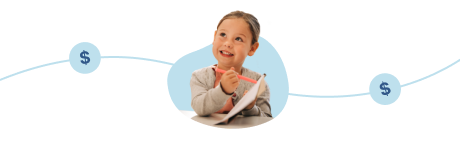
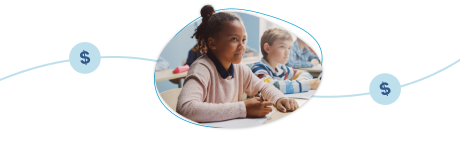
changing modal donation drawer to white bg, fixing page jump when landing mid-flow

Changed region(s): [[0.3348, 0.0282, 0.7, 0.9014]]

diff --git a/src/pages/Donate/DonateScrollFlow.jsx b/src/pages/Donate/DonateScrollFlow.jsx
@@ -32,6 +32,28 @@ export default function DonateScrollFlow() {
   const [dotPositions, setDotPositions] = useState({ fund: 0, state: 0, school: 0 });
   const didInitOnce = useRef(false);
 
+  // A prefill link (e.g. ?fund=american-promise) makes the init effect below
+  // jump the scroll position past Fund — but that jump only happens after a
+  // render + several requestAnimationFrame stability checks, so without this
+  // the very first paint briefly shows the page at the top before snapping
+  // down, reading as a jarring flash-then-jump. Computed synchronously here
+  // (mirroring the init effect's own target resolution exactly) so a normal
+  // fresh visit — the common case, nothing to jump past — never pays for
+  // this at all: it's ready immediately.
+  const [isReady, setIsReady] = useState(() => {
+    const params = new URLSearchParams(location.search);
+    const fundParam = params.get('fund');
+    const stateParam = params.get('state');
+    const hasFund = Boolean(fundParam) && FUNDS.some((fund) => fund.id === fundParam);
+    if (!hasFund) return true;
+    const matchedState = stateParam
+      ? STATE_OPTIONS.find((option) => option.value.toLowerCase() === stateParam.toLowerCase())
+      : null;
+    // No-preference resolves the whole flow with no School step left to jump
+    // to, same as the init effect's own target computation.
+    return matchedState?.value === 'no-preference';
+  });
+
   const selectedFund = FUNDS.find((fund) => fund.id === fundId) || null;
   const selectedState = STATE_OPTIONS.find((option) => option.value === stateCode) || null;
   const selectedSchool = findSchool(stateCode, schoolId);
@@ -58,7 +80,10 @@ export default function DonateScrollFlow() {
   // land short. Poll the target's absolute position each frame until it
   // stops moving between two consecutive frames, then scroll — robust to
   // however many render passes the change actually takes to settle.
-  function scrollToSectionWhenStable(key, opts, stableStreak = 0, attemptsLeft = 60) {
+  // onDone (used only by the init effect's prefill jump) fires right after
+  // the scroll actually happens — that's the signal the page is safe to
+  // reveal, having landed at its final position with nothing left to jump.
+  function scrollToSectionWhenStable(key, opts, stableStreak = 0, attemptsLeft = 60, onDone) {
     const el = sectionRefs[key].current;
     // Require several consecutive matching frames, not just one — a single
     // match can be a false positive between two separate cascading render
@@ -67,6 +92,7 @@ export default function DonateScrollFlow() {
     const REQUIRED_STREAK = 15;
     if (!el || attemptsLeft <= 0) {
       scrollToSection(key, opts);
+      onDone?.();
       return;
     }
     const top = el.getBoundingClientRect().top + window.scrollY;
@@ -75,8 +101,9 @@ export default function DonateScrollFlow() {
       const nextStreak = nowTop === top ? stableStreak + 1 : 0;
       if (nextStreak >= REQUIRED_STREAK) {
         scrollToSection(key, opts);
+        onDone?.();
       } else {
-        scrollToSectionWhenStable(key, opts, nextStreak, attemptsLeft - 1);
+        scrollToSectionWhenStable(key, opts, nextStreak, attemptsLeft - 1, onDone);
       }
     });
   }
@@ -179,7 +206,9 @@ export default function DonateScrollFlow() {
     // idea when no-preference resolves the whole flow with no School step to
     // land on — target is null and there's nothing to scroll to.
     if (target && target !== 'fund') {
-      scrollToSectionWhenStable(target, { smooth: false });
+      scrollToSectionWhenStable(target, { smooth: false }, 0, 60, () => setIsReady(true));
+    } else {
+      setIsReady(true);
     }
     // Only ever runs once, regardless of what changes afterward.
     // eslint-disable-next-line react-hooks/exhaustive-deps
@@ -230,7 +259,7 @@ export default function DonateScrollFlow() {
 
   return (
     <>
-      <div className="afc-donate-scroll-flow afc-wide">
+      <div className={`afc-donate-scroll-flow afc-wide${isReady ? '' : ' is-positioning'}`}>
         <div className="afc-donate-scroll-flow__sections">
           <h1 className="afc-donation-step__heading">
             MAKE A <strong>DONATION</strong>
@@ -295,7 +324,7 @@ export default function DonateScrollFlow() {
         />
       </div>
 
-      <div className="afc-wide afc-donate-scroll-flow__trust">
+      <div className={`afc-wide afc-donate-scroll-flow__trust${isReady ? '' : ' is-positioning'}`}>
         <p className="afc-donate-scroll-flow__trust-item">
           <LockIcon className="afc-donate-scroll-flow__trust-icon" />
           Secure donation

diff --git a/src/components/DonationSummaryPanel/DonationSummaryPanel.css b/src/components/DonationSummaryPanel/DonationSummaryPanel.css
@@ -48,8 +48,15 @@
   display: none;
 }
 
+/* Mobile-only (see @media below) — hidden here the same way
+   .rail-image--mobile is, since this wrapper only exists for the
+   full-screen mobile drawer, not the desktop card. */
+.afc-donation-panel__mobile-header {
+  display: none;
+}
+
 .afc-donation-panel__banner-text {
-  margin: 0;
+  margin: 0 0 10px;
   font-family: var(--font-body);
   font-size: 1.15rem;
   line-height: 1.35;
@@ -149,6 +156,13 @@
   font-weight: 600;
 }
 
+/* Unscoped (not inside any @media block) so this applies at every
+   breakpoint, not just desktop. */
+.afc-donation-panel__row-link:hover {
+  color: var(--color-link-hover);
+  text-decoration: underline;
+}
+
 /* No color set here on purpose — it should just inherit the surrounding
    text color (ink on the desktop card, paper/white on the mobile drawer via
    .afc-donation-panel__row-value p), not lock in one color for both. */
@@ -199,7 +213,7 @@
     border: none;
     z-index: 500;
     overflow: visible;
-    background: var(--color-structure);
+    background: var(--color-paper);
     transition: height 0.35s ease;
   }
 
@@ -297,6 +311,10 @@
   }
 
   .afc-donation-panel__banner-text {
+    /* Desktop's 10px margin-bottom would double up with this layout's own
+       0.625rem (10px) gap between every stacked child — the gap alone
+       already gives the same spacing here. */
+    margin-bottom: 0;
     font-size: 0.9rem;
   }
 
@@ -317,10 +335,39 @@
   /* On mobile the image lives in the upper blue area of the body (the part
      that scrolls into view at the top when the sheet expands), not inside
      the bottom-pinned banner — matching where the original placeholder box
-     used to sit, above the "Your Donation" rows. */
+     used to sit, above the "Your Donation" rows. Full-bleed within
+     .mobile-header: negative margins cancel that wrapper's own
+     padding-inline (var(--gutter)) so the image reaches its true edges
+     instead of just filling the padded content box — same technique as
+     .rail-image--desktop above, against this wrapper's own padding. */
   .afc-donation-panel__rail-image--mobile {
     display: block;
-    margin-top: 1.5rem;
+    width: calc(100% + 2 * var(--gutter));
+    max-width: none;
+    margin: 1.5rem calc(-1 * var(--gutter)) 12px;
+  }
+
+  /* Wraps the mobile logo + rail image in their own dark-blue band at the
+     top of the expanded drawer — the rest of the drawer is now white (see
+     .afc-donation-panel__body below), so this band needs its own explicit
+     background to stay blue instead of inheriting white.
+     Logo padding/sizing intentionally mirrors the real site header exactly
+     (same padding-top: 12px, same padding-inline: var(--gutter), same
+     width: clamp(220px, 22vw, 314px)) — confirmed via direct measurement
+     against .afc-site-logo img at 390px (x:20 y:12 w:220 h:39.2) — so that
+     when the drawer expands and covers the real header, this logo sits at
+     the exact same on-screen position/size the real one just occupied,
+     reading as one continuous logo rather than a jump-cut. */
+  .afc-donation-panel__mobile-header {
+    display: block;
+    padding: 12px var(--gutter) 0;
+    background: var(--color-structure);
+  }
+
+  .afc-donation-panel__mobile-logo {
+    display: block;
+    width: clamp(220px, 22vw, 314px);
+    height: auto;
   }
 
   /* Fills the panel from the top down to exactly where the (independently
@@ -335,39 +382,16 @@
     top: 0;
     bottom: var(--donation-panel-peek, 11rem);
     overflow-y: auto;
-    background: var(--color-structure);
+    background: var(--color-paper);
   }
 
   .afc-donation-panel__rows {
     padding: 2rem 1.25rem 0;
   }
 
-  .afc-donation-panel__rows-heading {
-    border-bottom-color: #5578a3;
-    color: var(--color-paper);
-  }
-
-  .afc-donation-panel__row {
-    border-bottom-color: #5578a3;
-    color: var(--color-paper);
-  }
-
-  .afc-donation-panel__row-value p {
-    color: var(--color-paper);
-  }
-
-  .afc-donation-panel__row-value p.is-locked {
-    color: rgba(255, 255, 255, 0.55);
-  }
-
-  .afc-donation-panel__row-link {
-    color: var(--color-accent);
-    text-decoration: underline;
-  }
-
-  .afc-donation-panel__row-link:hover {
-    color: var(--color-paper);
-  }
+  /* Rows/links below here now sit on the same white background as desktop
+     (.afc-donation-panel__body, above), so they just inherit the desktop
+     base rules unchanged — no dark-background color overrides needed. */
 
   .afc-donation-panel__cta {
     flex-shrink: 0;

diff --git a/src/components/DonationSummaryPanel/DonationSummaryPanel.jsx b/src/components/DonationSummaryPanel/DonationSummaryPanel.jsx
@@ -1,6 +1,7 @@
 import { useEffect, useRef, useState } from 'react';
 import { ChevronDoubleIcon } from '../icons/DonationIcons.jsx';
 import railGraphic from '../../assets/photos/default-rail-graphic.png';
+import logoWhite from '../../assets/logos/afc-horizontal-white.png';
 import './DonationSummaryPanel.css';
 
 // Indexed by how many of {fund, state, school} are filled in (0-3) — driven
@@ -153,11 +154,18 @@ export default function DonationSummaryPanel({
       </div>
 
       <div className="afc-donation-panel__body" aria-hidden={isMobile && !isExpanded}>
-        <img
-          src={railGraphic}
-          alt=""
-          className="afc-donation-panel__rail-image afc-donation-panel__rail-image--mobile"
-        />
+        <div className="afc-donation-panel__mobile-header">
+          <img
+            src={logoWhite}
+            alt="AFC Scholarship Fund"
+            className="afc-donation-panel__mobile-logo"
+          />
+          <img
+            src={railGraphic}
+            alt=""
+            className="afc-donation-panel__rail-image afc-donation-panel__rail-image--mobile"
+          />
+        </div>
         <div className="afc-donation-panel__rows">
           <p className="afc-donation-panel__rows-heading">Your Donation</p>
 

diff --git a/src/pages/Donate/DonateScrollFlow.css b/src/pages/Donate/DonateScrollFlow.css
@@ -1,3 +1,19 @@
+/* Hidden while a prefill link (?fund=...) is still jumping the scroll
+   position past Fund — without this, the first paint briefly shows the page
+   at the top before it snaps down to State/School, reading as a jarring
+   flash-then-jump. Kept in normal layout (opacity, not display:none) so the
+   stability-check in DonateScrollFlow.jsx can still measure real positions
+   while hidden; fades in once the jump (if any) has already happened, so a
+   normal fresh visit — nothing to jump past — never sees this at all. */
+.is-positioning {
+  opacity: 0;
+}
+
+.afc-donate-scroll-flow,
+.afc-donate-scroll-flow__trust {
+  transition: opacity 0.2s ease;
+}
+
 .afc-donate-scroll-flow {
   display: flex;
   /* stretch (not flex-start): the sidebar wrapper has no height of its own,

diff --git a/src/pages/Donate/SchoolSearch.jsx b/src/pages/Donate/SchoolSearch.jsx
@@ -41,7 +41,10 @@ export default function SchoolSearch({ stateCode, stateName, value, onChange }) 
     const trimmed = query.trim().toLowerCase();
     if (!trimmed) return [];
 
-    const matches = dataset.filter((school) => school.name.toLowerCase().includes(trimmed));
+    const matches = dataset.filter(
+      (school) =>
+        school.name.toLowerCase().includes(trimmed) || school.city.toLowerCase().includes(trimmed)
+    );
     const byCity = new Map();
     for (const school of matches) {
       if (!byCity.has(school.city)) byCity.set(school.city, []);
